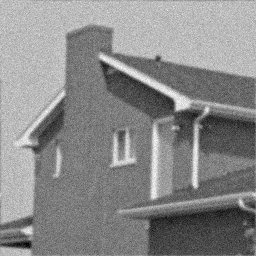
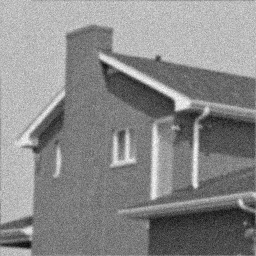
TV deblur

diff --git a/deblur/main.py b/deblur/main.py
@@ -25,7 +25,7 @@ if __name__ == '__main__':
     y = np.clip(y,a_min=0, a_max=1)
 
     # set up parameters
-    method = 'BM3D'
+    method = 'NLM'
     if method == 'RF':
         lambd = 0.0005
     elif method == 'NLM':
